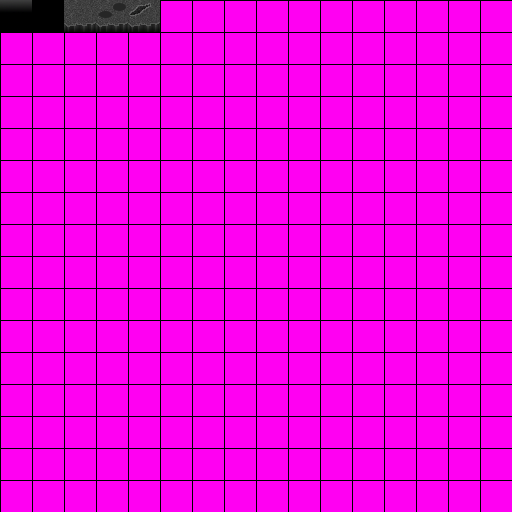
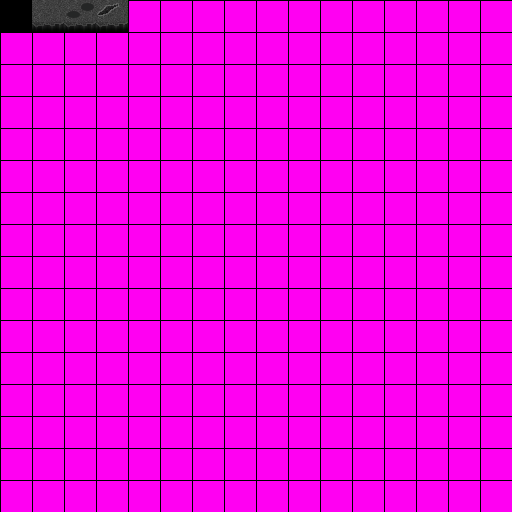
End of work for Day 1
Started work on Entities and their renderer, got window resizing to
handle properly.

Changed region(s): [[0.0, 0.0, 0.3125, 0.0625]]

diff --git a/src/com/semo/ld29/render/WorldRenderer.java b/src/com/semo/ld29/render/WorldRenderer.java
@@ -4,7 +4,7 @@ import java.io.IOException;
 import java.nio.file.Paths;
 
 import org.jsfml.graphics.IntRect;
-import org.jsfml.graphics.RenderWindow;
+import org.jsfml.graphics.RenderTarget;
 import org.jsfml.graphics.Sprite;
 import org.jsfml.graphics.Texture;
 import org.jsfml.system.Vector2f;
@@ -15,11 +15,11 @@ public class WorldRenderer
 {
 	public static Texture tileMap;
 	public static Sprite currentTile;
-	public static RenderWindow target;
+	private static RenderTarget target; // RenderTarget allows the target to be a window or a render to texture
 	
-	public static void init(RenderWindow window) throws IOException
+	public static void init(RenderTarget target) throws IOException
 	{
-		target = window;
+		WorldRenderer.target = target;
 		
 		tileMap = new Texture();
 		tileMap.loadFromFile(Paths.get("resources\\tileMap.png"));
@@ -36,13 +36,16 @@ public class WorldRenderer
 		currentTile.setTextureRect(getTextureLocation(0));
 		
 		// TODO: make this more efficient, not rendering EVERYTHING only what needs to be rendered (ie what is on screen)
-		for (int x = 0; x < world.width; ++x)
+		for (int y = 0; y < world.width; ++y)
 		{
-			for (int y = world.height - 1; y >= 0; --y)
+			for (int x = 0; x < world.height; ++x)
 			{
-				currentTile.setTextureRect(getTextureLocation(world.getTile(x, y).getIndex(world.getMetadata(x, y))));
-				currentTile.setPosition(new Vector2f(x * 64, y * 64));
-				target.draw(currentTile);
+				if (!world.isHole(x, y)) 
+				{
+					currentTile.setTextureRect(getTextureLocation(world.getTile(x, y).getIndex(world.getMetadata(x, y))));
+					currentTile.setPosition(new Vector2f(x * 64, y * 44)); // This is because the front texture is 10 px tall and x2 scale
+					target.draw(currentTile);
+				}
 			}
 		}
 	}

diff --git a/src/com/semo/ld29/world/World.java b/src/com/semo/ld29/world/World.java
@@ -1,5 +1,9 @@
 package com.semo.ld29.world;
 
+import java.util.ArrayList;
+
+import com.semo.ld29.entity.Entity;
+import com.semo.ld29.render.EntityRenderer;
 import com.semo.ld29.render.WorldRenderer;
 import com.semo.ld29.world.tile.Tile;
 
@@ -11,6 +15,8 @@ public class World
 	public final int width;
 	public final int height;
 	
+	private ArrayList<Entity> entityList;
+	
 	public World(int width, int height)
 	{
 		this.width = width;
@@ -20,16 +26,10 @@ public class World
 		this.metaData = new byte[width][height];
 		
 		for (int x = 0; x < width; ++x)
-		{
 			for (int y = 0; y < height; ++y)
-			{
-				if (y == 0)
-					setTile(x, y, 0);
-				else
-					setTile(x, y, 0, (byte)1);
-			}
-		}
+				setTile(x, y, 0);
 		
+		// Keep for testing purposes with new tiles
 		for (int x = 0; x < 4; ++x)
 		{
 			for (int y = 0; y < 3; ++y)
@@ -37,16 +37,45 @@ public class World
 				setTile(x + 3, y + 3, 1, (byte)0);
 			}
 		}
+		
+		entityList = new ArrayList<Entity>();
 	}
 	
 	public void update(float elapsed)
 	{
-		
+		for (Entity ent : entityList)
+			ent.update(elapsed);
 	}
 	
 	public void render(float elapsed)
 	{
 		WorldRenderer.renderWorld(this);
+		
+		for (Entity ent : entityList)
+			EntityRenderer.renderEntity(ent);
+	}
+	
+	// ==============================================
+	
+	public void addEntity(Entity entity)
+	{
+		if (!entityList.contains(entity))
+		{
+			entityList.add(entity);
+			entity.onSpawn();
+			// TODO: fire event for the entity spawn?
+		}
+	}
+	
+	public ArrayList<Entity> getEntities()
+	{
+		return entityList;
+	}
+	
+	public void removeEntity(Entity entity)
+	{
+		if (entityList.contains(entity))
+			entityList.remove(entityList.indexOf(entity));
 	}
 	
 	// ==============================================

diff --git a/src/com/semo/ld29/entity/Entity.java b/src/com/semo/ld29/entity/Entity.java
@@ -1,0 +1,65 @@
+package com.semo.ld29.entity;
+
+import org.jsfml.system.Vector2f;
+import org.jsfml.system.Vector2i;
+
+import com.semo.ld29.world.World;
+import com.semo.ld29.world.tile.Tile;
+
+// Rendering is done with the EntityRenderer class and called by the containing world
+public abstract class Entity 
+{
+	protected Vector2f position;
+	protected World world;
+	
+	private Vector2i tilePos;
+	
+	public Entity(Vector2f position)
+	{
+		this.position = position;
+		this.tilePos = new Vector2i((int)position.x / 64, (int)position.y / 44);
+	}
+	
+	public Vector2f getPosition()
+	{
+		return new Vector2f(position.x, position.y);
+	}
+	
+	public void setPosition(Vector2f newPos)
+	{
+		this.position = newPos;
+		// TODO: check is a position changed event is necessary
+	}
+	
+	public final World getWorld()
+	{
+		return world;
+	}
+	
+	public void onInitialize() { }
+	public void onSpawn() { }
+	
+	// DO NOT FORGET TO CALL super.update IN CHILD CLASSES, or sadness
+	public void update(float elapsed)
+	{
+		int tx = (int)position.x / 64;
+		int ty = (int)position.y / 44;
+		
+		Tile curr = world.getTile(tilePos.x, tilePos.y);
+		curr.onEntityStep(this, tilePos.x, tilePos.y, world.getMetadata(tilePos.x, tilePos.y));
+		if (tx != tilePos.x || ty != tilePos.y)
+		{
+			curr.onEntityExit(this, tilePos.x, tilePos.y, world.getMetadata(tilePos.x, tilePos.y));
+			world.getTile(tx, ty).onEntityEnter(this, tilePos.x, tilePos.y, world.getMetadata(tilePos.x, tilePos.y));
+			tilePos = new Vector2i(tx, ty);
+		}
+	}
+	
+	// =================================================
+	public static void createEntityInWorld(Entity entity, World world)
+	{
+		entity.world = world;
+		entity.onInitialize();
+		world.addEntity(entity);
+	}
+}

diff --git a/src/com/semo/ld29/Game.java b/src/com/semo/ld29/Game.java
@@ -3,12 +3,16 @@ package com.semo.ld29;
 import java.io.IOException;
 
 import org.jsfml.graphics.Color;
+import org.jsfml.graphics.FloatRect;
 import org.jsfml.graphics.RenderWindow;
+import org.jsfml.graphics.View;
 import org.jsfml.system.Clock;
 import org.jsfml.window.VideoMode;
 import org.jsfml.window.event.Event;
+import org.jsfml.window.event.SizeEvent;
 
 import com.semo.ld29.input.InputState;
+import com.semo.ld29.render.EntityRenderer;
 import com.semo.ld29.render.WorldRenderer;
 import com.semo.ld29.world.World;
 
@@ -33,6 +37,8 @@ public class Game
 			System.out.println("Could not load tileMap for world.");
 			this.exit(EXIT_ERROR);
 		}
+		
+		EntityRenderer.init(window);
 	}
 	
 	public void run()
@@ -43,7 +49,7 @@ public class Game
 		
 		while (window.isOpen())
 		{
-			window.clear(Color.WHITE);
+			window.clear(Color.BLACK);
 			
 			float deltaTime = (clock.restart()).asSeconds();
 			InputState.swapStates();
@@ -54,6 +60,13 @@ public class Game
 				
 				if (event.type == Event.Type.CLOSED)
 					window.close();
+				
+				if (event.type == Event.Type.RESIZED)
+				{
+					SizeEvent se = event.asSizeEvent();
+					window.setView(new View(new FloatRect(0, 0, se.size.x, se.size.y)));
+					// TODO: move the world renderer when the window resizes
+				}
 			}
 			
 			world.update(deltaTime);

diff --git a/src/com/semo/ld29/world/tile/Tile.java b/src/com/semo/ld29/world/tile/Tile.java
@@ -1,6 +1,7 @@
 package com.semo.ld29.world.tile;
 
 import com.semo.ld29.Game;
+import com.semo.ld29.entity.Entity;
 
 public class Tile 
 {
@@ -29,6 +30,22 @@ public class Tile
 		Tile.tiles[id] = this;
 	}
 	
+	// ======================================================
+	
+	// Checks if an entity can walk on a tile
+	public boolean canEntityEnterTile(Entity entity, int x, int y, byte meta)
+	{
+		return true;
+	}
+	
+	public void onEntityEnter(Entity entity, int x, int y, byte meta) { }
+	
+	public void onEntityStep(Entity entity, int x, int y, byte meta) { }
+	
+	public void onEntityExit(Entity entity, int x, int y, byte meta) { }
+	
+	// ======================================================
+	
 	public Tile setIndex(int index)
 	{
 		if (index < 0 || index > 64)
@@ -51,8 +68,8 @@ public class Tile
 	static
 	{
 		tiles = new Tile[64];
-		HOLE = new TileHole(0, "Hole", 0);
-		STONE_FLOOR = new TileStoneFloor(1, 2);
+		HOLE = new Tile(0, "Hole", 0);
+		STONE_FLOOR = new TileStoneFloor(1, "StoneFloor", 1);
 	}
 	
 	public static boolean tileExists(int id)

diff --git a/src/com/semo/ld29/render/EntityRenderer.java b/src/com/semo/ld29/render/EntityRenderer.java
@@ -1,0 +1,20 @@
+package com.semo.ld29.render;
+
+import org.jsfml.graphics.RenderTarget;
+
+import com.semo.ld29.entity.Entity;
+
+public class EntityRenderer 
+{
+	private static RenderTarget target; // RenderTarget allows the target to be a window or a render to texture
+	
+	public static void init(RenderTarget target)
+	{
+		EntityRenderer.target = target;
+	}
+	
+	public static void renderEntity(Entity entity)
+	{
+		
+	}
+}

diff --git a/src/com/semo/ld29/world/tile/TileStoneFloor.java b/src/com/semo/ld29/world/tile/TileStoneFloor.java
@@ -7,11 +7,12 @@ public class TileStoneFloor extends Tile
 	 * Metadata guide:
 	 * 0 - Empty stone
 	 * 1 - Poorly drawn rocks
+	 * 2 - crack
 	 */
 	
-	public TileStoneFloor(int id, int index)
+	public TileStoneFloor(int id, String name, int index)
 	{
-		super(id, "StoneFloor", index);
+		super(id, name, index);
 	}
 	
 	@Override
